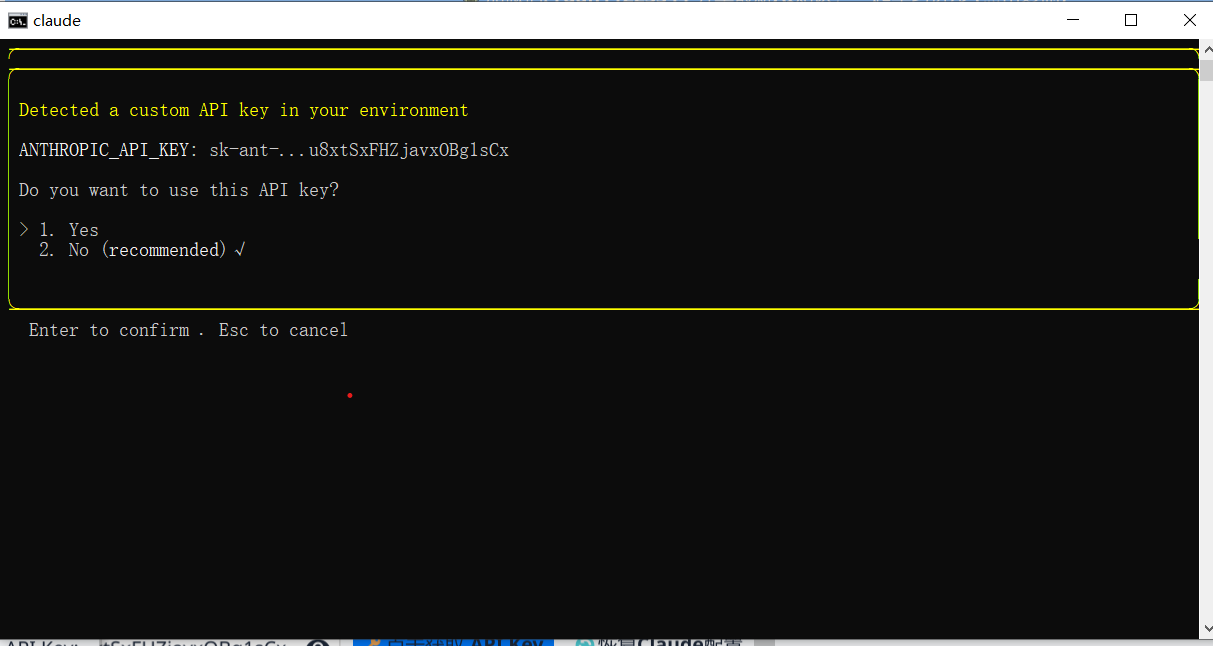
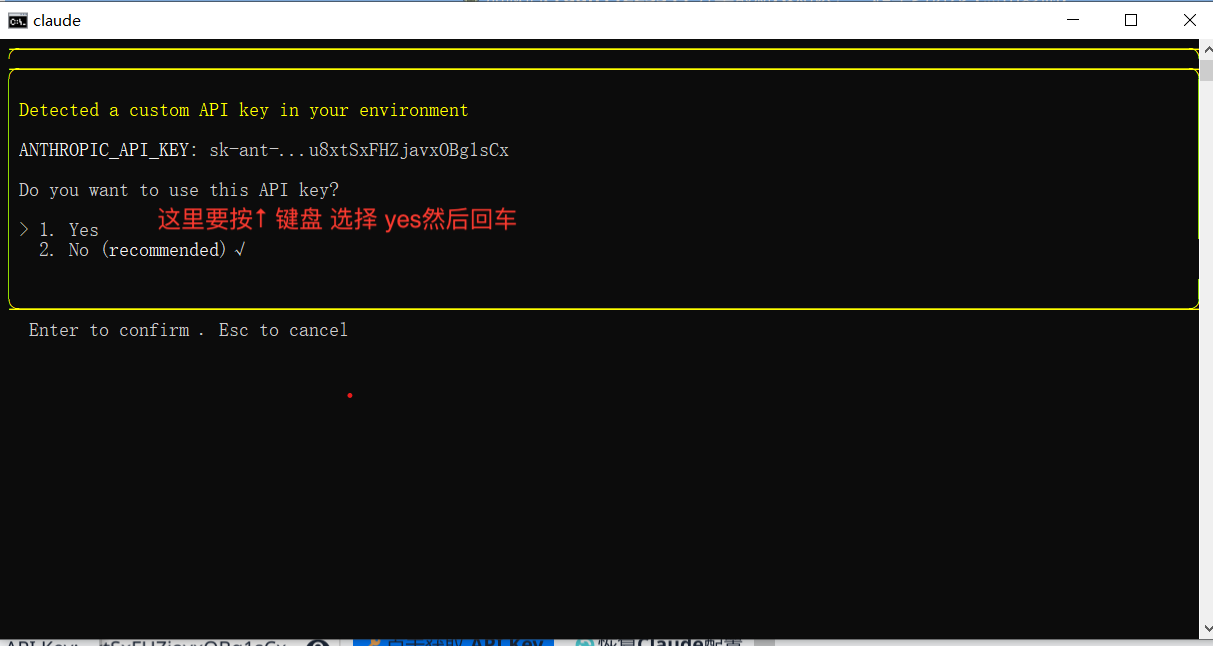
fix build

Changed region(s): [[0.122, 0.3096, 0.427, 0.3715]]

diff --git a/internal/ui/manager.go b/internal/ui/manager.go
@@ -282,39 +282,50 @@ func (m *Manager) onInstallClick() {
 	go func() {
 		for update := range m.installer.Progress {
 			if update.Error != nil {
-				m.statusLabel.SetText(fmt.Sprintf("错误: %v", update.Error))
-				m.installButton.Enable()
-				dialog.ShowError(update.Error, m.window)
+				// 在主线程中更新 UI
+				m.updateUI(func() {
+					m.statusLabel.SetText(fmt.Sprintf("错误: %v", update.Error))
+					m.installButton.Enable()
+					dialog.ShowError(update.Error, m.window)
+				})
 				return
 			}
 
-			// 更新进度
-			m.progressBar.SetValue(update.Percent)
-			m.statusLabel.SetText(update.Message)
+			// 更新进度 - 在主线程中执行
+			m.updateUI(func() {
+				m.progressBar.SetValue(update.Percent)
+				m.statusLabel.SetText(update.Message)
 
-			// 更新日志
-			logs := m.installer.GetLogs()
-			logText := strings.Join(logs, "\n")
-			m.logsDisplay.SetText(logText)
+				// 更新日志
+				logs := m.installer.GetLogs()
+				logText := strings.Join(logs, "\n")
+				m.logsDisplay.SetText(logText)
 
-			// 滚动到底部
-			m.logsDisplay.CursorRow = len(logs)
+				// 滚动到底部
+				m.logsDisplay.CursorRow = len(logs)
+			})
 		}
 
 		// 配置 API Key 和速率限制
-		m.statusLabel.SetText("配置 K2 API...")
+		m.updateUI(func() {
+			m.statusLabel.SetText("配置 K2 API...")
+		})
 
 		// 传递系统级配置选项
 		useSystemConfig := m.systemConfigCheck != nil && m.systemConfigCheck.Checked
 		err := m.installer.ConfigureK2APIWithOptions(apiKey, rpm, useSystemConfig)
 		if err != nil {
-			dialog.ShowError(err, m.window)
-			m.installButton.Enable()
+			m.updateUI(func() {
+				dialog.ShowError(err, m.window)
+				m.installButton.Enable()
+			})
 			return
 		}
 
-		// 完成安装
-		m.handleInstallComplete()
+		// 完成安装 - 在主线程中执行
+		m.updateUI(func() {
+			m.handleInstallComplete()
+		})
 	}()
 }
 
@@ -338,8 +349,18 @@ func (m *Manager) showTutorial() {
 }
 
 func (m *Manager) updateUI(fn func()) {
-	m.window.Canvas().Refresh(m.window.Content())
-	if fn != nil {
+	if fn == nil {
+		return
+	}
+	
+	// 使用 Fyne 的线程安全机制
+	// 确保 UI 操作在主线程中执行
+	if fyne.CurrentApp().Driver().CanvasForObject(m.window.Content()) != nil {
+		// 如果已经在主线程，直接执行
+		fn()
+	} else {
+		// 否则，安排在主线程执行
+		m.window.Canvas().Refresh(m.window.Content())
 		fn()
 	}
 }

diff --git a/internal/ui/tutorial_with_images.go b/internal/ui/tutorial_with_images.go
@@ -179,6 +179,21 @@ func NewTutorialWithImages(parent fyne.Window) *TutorialWithImages {
 				ImageData: assets.APIKeyCreatedImage,
 			},
 			{
+				Title: "步骤4：首次运行 Claude Code",
+				Content: `打开 Claude Code 后，会检测到你的自定义 API Key：
+
+1. 系统会显示检测到的 API Key（如图所示）
+2. 询问是否使用此 API Key
+3. 这里要按↑键盘，选择 "1. Yes"
+4. 然后按回车键继续
+
+⚠ 重要提醒：
+• 一定要选择 "Yes" 使用检测到的 K2 API
+• 系统已经为你配置好了 Kimi K2 的 API
+• 如果选择 No，将无法使用配置好的 K2 服务`,
+				ImageData: assets.ClaudeFirstRunImage,
+			},
+			{
 				Title: "安装完成后的使用",
 				Content: `安装完成后，你可以：
 

diff --git a/assets/resources.go b/assets/resources.go
@@ -12,3 +12,6 @@ var CreateAPIKeyImage []byte
 
 //go:embed images/api-key-created.png
 var APIKeyCreatedImage []byte
+
+//go:embed images/select-key.png
+var ClaudeFirstRunImage []byte
